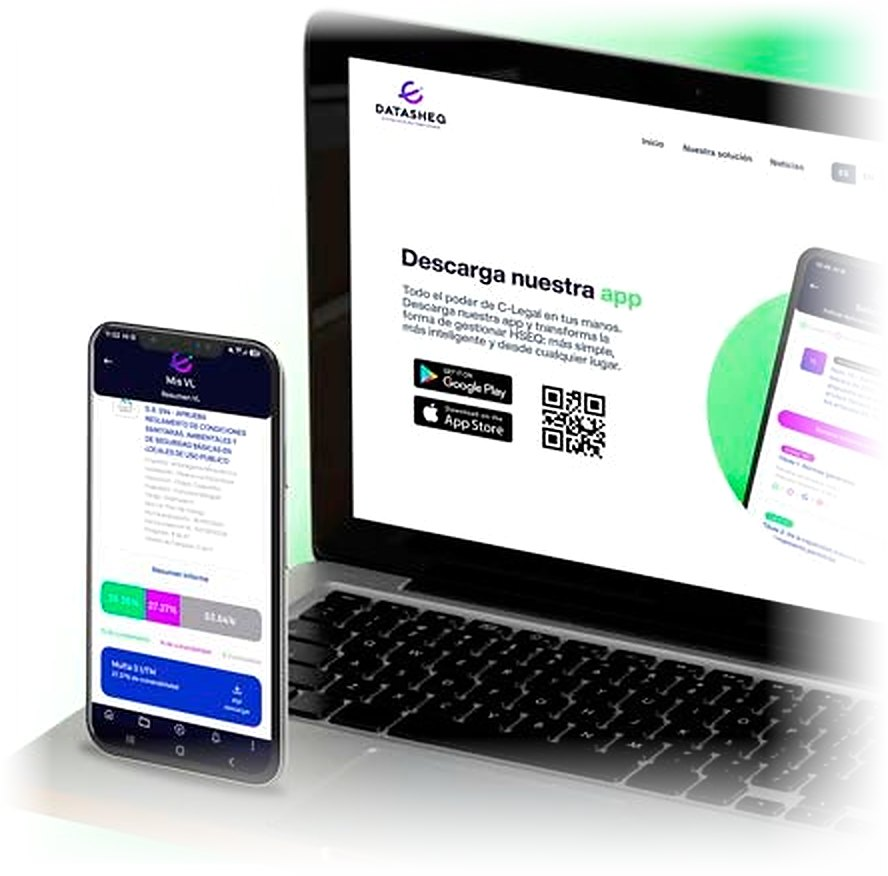
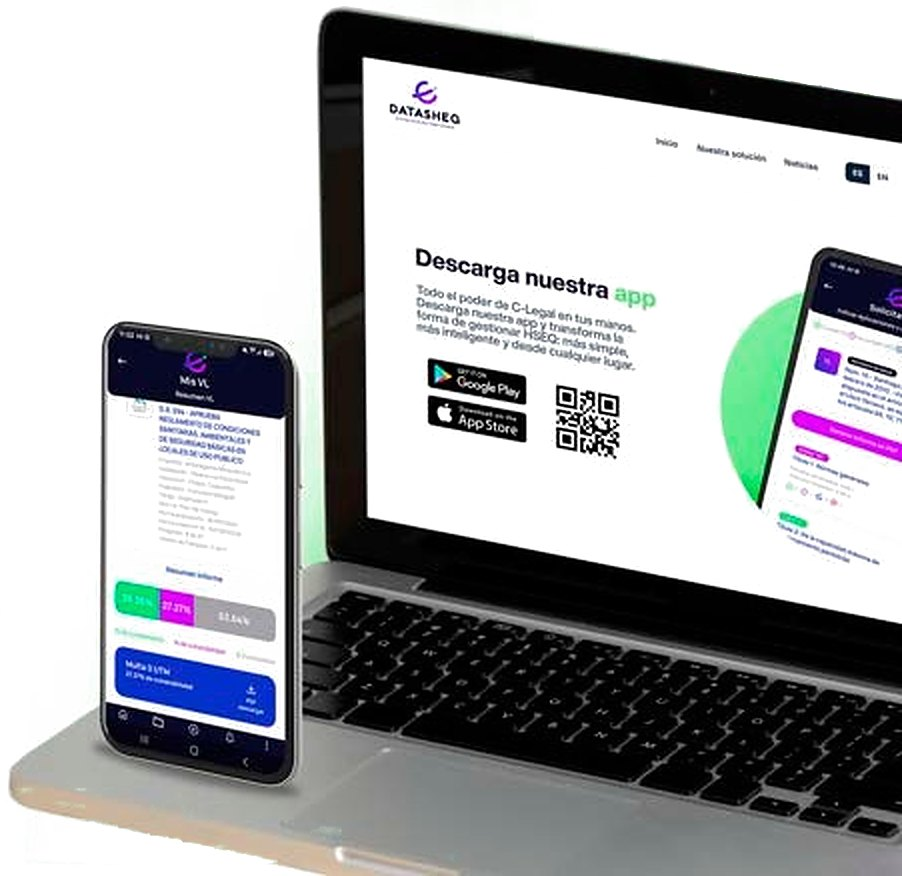
Hero: remove image fade, let the mockup bleed off the right edge
- Rebuild hero.jpg from the PDF layer without the baked edge fade
  (only the green background glow is removed so the edges stay clean)
- Mockup now touches the right edge of the window and sits on the bottom
  of the hero, as in the design; spacing tuned for tablet/mobile
- Cache-busting ?v= on hero/phone images; version 1.0.1

Claude-Session: https://claude.ai/code/session_019CMLPUfimM6z7J8fkU6eGN

diff --git a/public/css/styles.css b/public/css/styles.css
@@ -196,18 +196,19 @@ section[id], [id='mision-vision'] { scroll-margin-top: calc(var(--header-h) + 8p
 .menu-toggle[aria-expanded='true'] .i-menu { display: none; }
 
 /* ───────── Hero ───────── */
-.hero { position: relative; overflow: hidden; padding: 56px 0 64px; }
-.hero::after {
-  content: ''; position: absolute; right: -10%; bottom: -30%; width: 60%; height: 70%;
-  background: radial-gradient(closest-side, rgba(0, 212, 106, 0.16), transparent);
-  pointer-events: none; z-index: -1;
-}
-.hero-grid { display: grid; grid-template-columns: 1.05fr 1fr; align-items: center; gap: 40px; }
-.hero h1 { font-size: clamp(34px, 4.4vw, 54px); font-weight: 800; line-height: 1.08; letter-spacing: -0.03em; margin-bottom: 24px; }
+/* The device mockup bleeds off the right edge and sits on the bottom of the hero (as in the design) — no fades. */
+.hero { position: relative; overflow: hidden; padding-top: 40px; }
+.hero-grid { display: grid; grid-template-columns: minmax(0, 1fr) minmax(0, 1fr); align-items: center; gap: 32px; }
+.hero-copy { padding: 16px 0 72px; }
+.hero h1 { font-size: clamp(34px, 4.2vw, 54px); font-weight: 800; line-height: 1.08; letter-spacing: -0.03em; margin-bottom: 24px; }
 .hero .lead { max-width: 560px; }
 .hero-cta { display: flex; flex-wrap: wrap; gap: 16px; margin-top: 36px; }
-.hero-media { position: relative; margin-right: calc(var(--gutter) * -1); }
-.hero-media img { width: 100%; max-width: 640px; margin-left: auto; mix-blend-mode: multiply; }
+.hero-media {
+  align-self: end;
+  /* stretch to the right edge of the window, whatever the container width */
+  margin-right: calc((min(100vw, calc(var(--container) + var(--gutter) * 2)) - 100vw) / 2 - var(--gutter));
+}
+.hero-media img { width: 100%; max-width: 780px; margin-left: auto; mix-blend-mode: multiply; }
 
 /* ───────── Sections ───────── */
 .section { padding: 96px 0; }
@@ -465,9 +466,10 @@ section[id], [id='mision-vision'] { scroll-margin-top: calc(var(--header-h) + 8p
   .nav-cta { display: flex; margin-top: 14px; }
   .header-actions { margin-left: auto; gap: 8px; }
 
-  .hero { padding: 40px 0 56px; }
-  .hero-grid { grid-template-columns: 1fr; gap: 24px; }
-  .hero-media { margin: 0 auto; max-width: 560px; }
+  .hero { padding-top: 32px; }
+  .hero-grid { grid-template-columns: 1fr; gap: 32px; }
+  .hero-copy { padding: 0; }
+  .hero-media { justify-self: end; width: min(100% + var(--gutter), 620px); margin-right: calc(var(--gutter) * -1); }
   .about-grid, .app-grid, .contact-grid { grid-template-columns: 1fr; gap: 40px; }
   .contact-copy { position: static; }
   .modules-grid { grid-template-columns: repeat(2, 1fr); }

diff --git a/src/views/page.js b/src/views/page.js
@@ -289,7 +289,7 @@ function renderPage({ lang, baseUrl, version }) {
           </div>
         </div>
         <div class="hero-media">
-          <img src="/assets/hero.jpg" alt="${e(t('hero_img_alt'))}" width="888" height="876" fetchpriority="high">
+          <img src="/assets/hero.jpg?v=${v}" alt="${e(t('hero_img_alt'))}" width="902" height="876" fetchpriority="high">
         </div>
       </div>
     </section>
@@ -374,7 +374,7 @@ function renderPage({ lang, baseUrl, version }) {
           </div>
         </div>
         <div class="app-media">
-          <img src="/assets/phone.jpg" alt="${e(t('app_img_alt'))}" width="634" height="770" loading="lazy">
+          <img src="/assets/phone.jpg?v=${v}" alt="${e(t('app_img_alt'))}" width="634" height="770" loading="lazy">
         </div>
       </div>
     </section>
